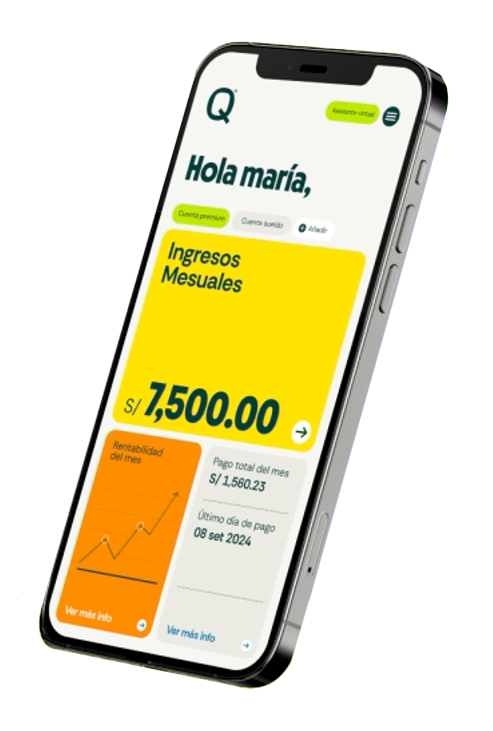
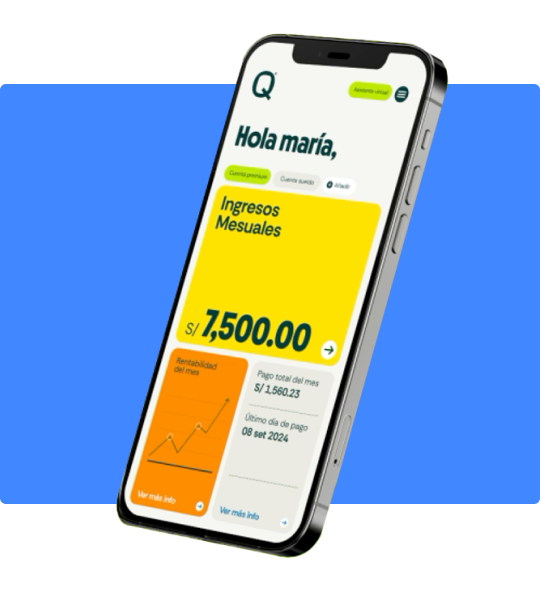
style: :lipstick: Header & Hero updates

diff --git a/src/navigation.ts b/src/navigation.ts
@@ -3,48 +3,42 @@ import { getPermalink } from './utils/permalinks';
 export const headerData = {
   links: [
     {
-      text: 'Inicio',
-      href: getPermalink('/'),
-    },
-    {
-      text: 'Nosotros',
+      text: '¿Qué ofrece Qompa?',
       href: getPermalink('/#about'),
     },
     {
-      text: 'Planes',
+      text: 'Nuestros planes',
       href: getPermalink('/#pricing'),
     },
     {
-      text: 'Blog',
-      href: getPermalink('/#blog'),
+      text: 'Nosotros',
+      href: getPermalink('/#team'),
     },
   ],
-  actions: [{ text: 'Regístrate', href: 'https://47571431.hs-sites.com/es-pe/qompa-reg%C3%ADstrate-y-transforma-las-finanzas-de-tu-empresa', target: '_self' }],
+  actions: [
+    {
+      text: 'Regístrate',
+      href: 'https://47571431.hs-sites.com/es-pe/qompa-reg%C3%ADstrate-y-transforma-las-finanzas-de-tu-empresa',
+      target: '_self',
+      variant: 'primary',
+    },
+  ],
+  showRssFeed: false,
 };
 
 export const footerData = {
   links: [
     {
       title: '',
-      links: [{ text: 'Inicio', href: getPermalink('/') }],
+      links: [{ text: '¿Qué ofrece Qompa?', href: getPermalink('/#about') }],
     },
     {
       title: '',
-      links: [
-        { text: 'Nosotros', href: getPermalink('/#about') },
-      ],
+      links: [{ text: 'Nuestros planes', href: getPermalink('/#pricing') }],
     },
     {
       title: '',
-      links: [
-        { text: 'Planes', href: getPermalink('/#pricing') },
-      ],
-    },
-    {
-      title: '',
-      links: [
-        { text: 'Blog', href: getPermalink('/#blog') },
-      ],
+      links: [{ text: 'Nosotros', href: getPermalink('/#team') }],
     },
   ],
   secondaryLinks: [

diff --git a/src/assets/styles/tailwind.css b/src/assets/styles/tailwind.css
@@ -36,6 +36,9 @@
   .text-muted {
     color: var(--aw-color-text-muted);
   }
+  .text-8xl {
+    font-size: 4.75rem;
+  }
 }
 
 @font-face {
